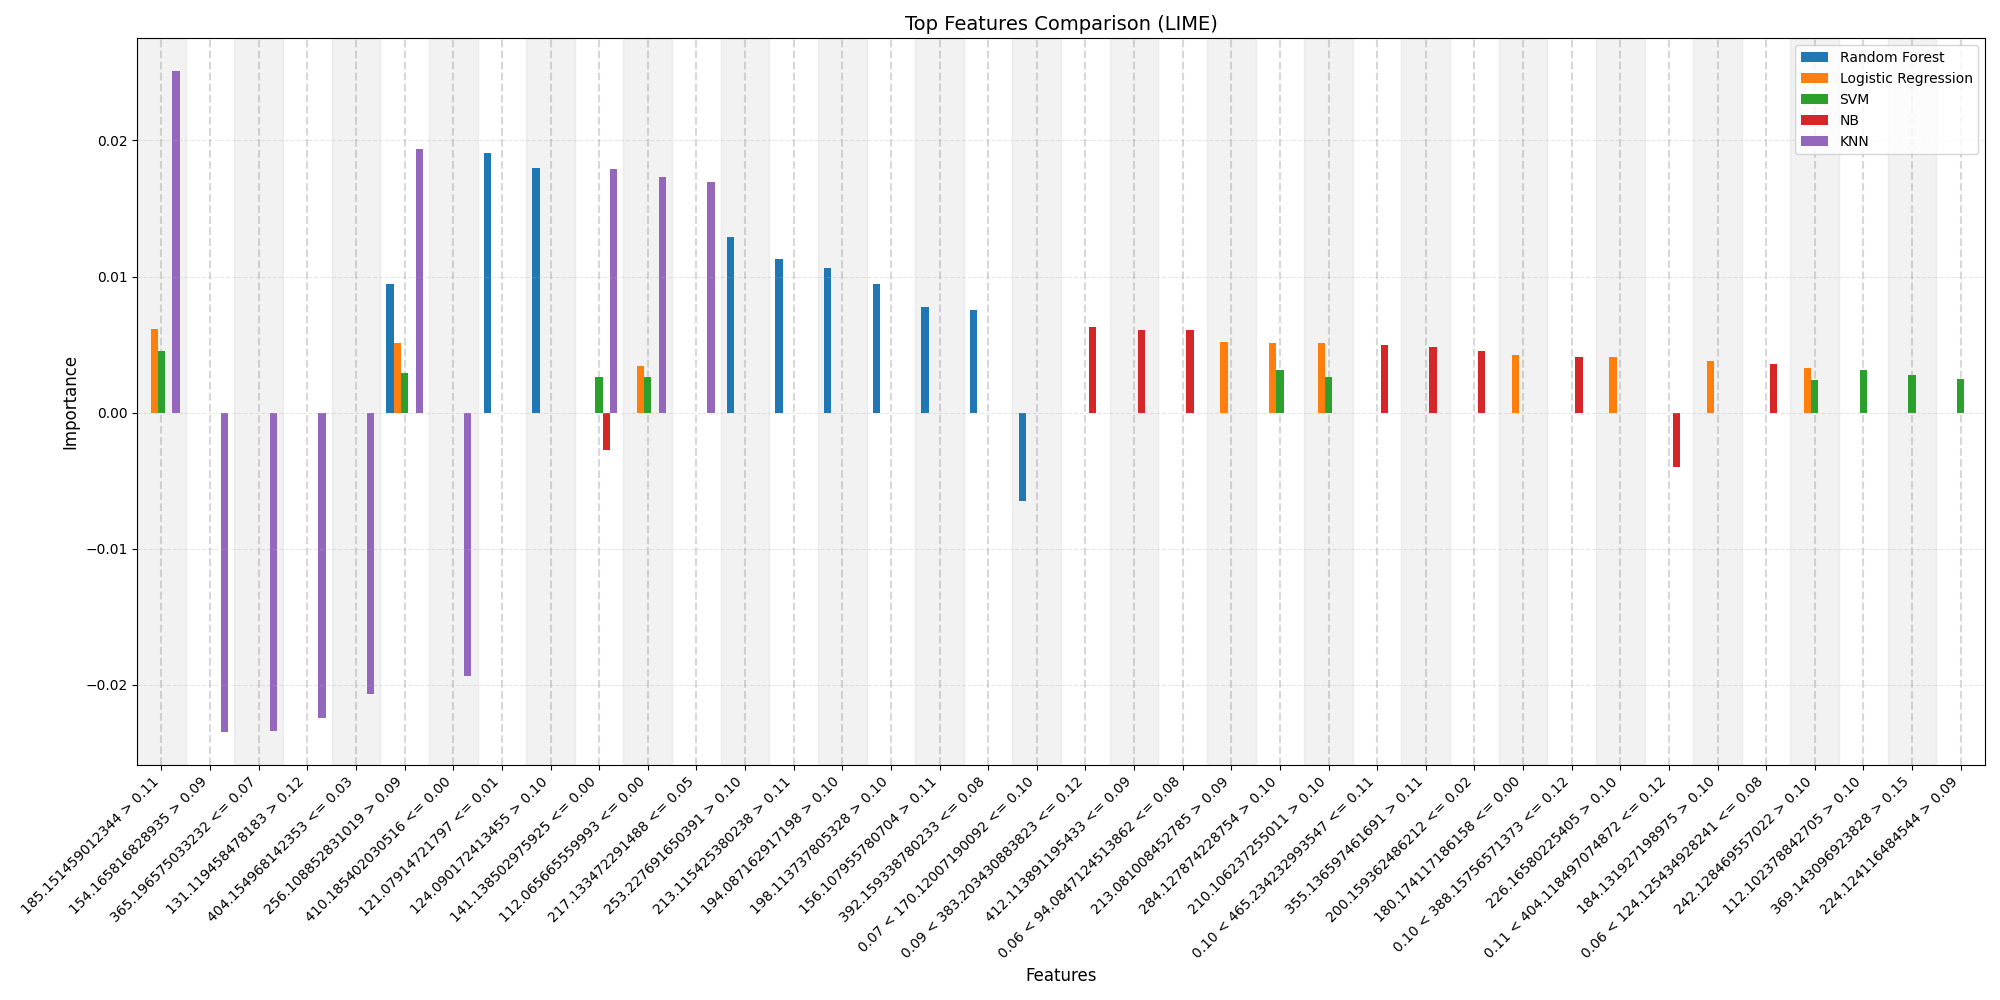
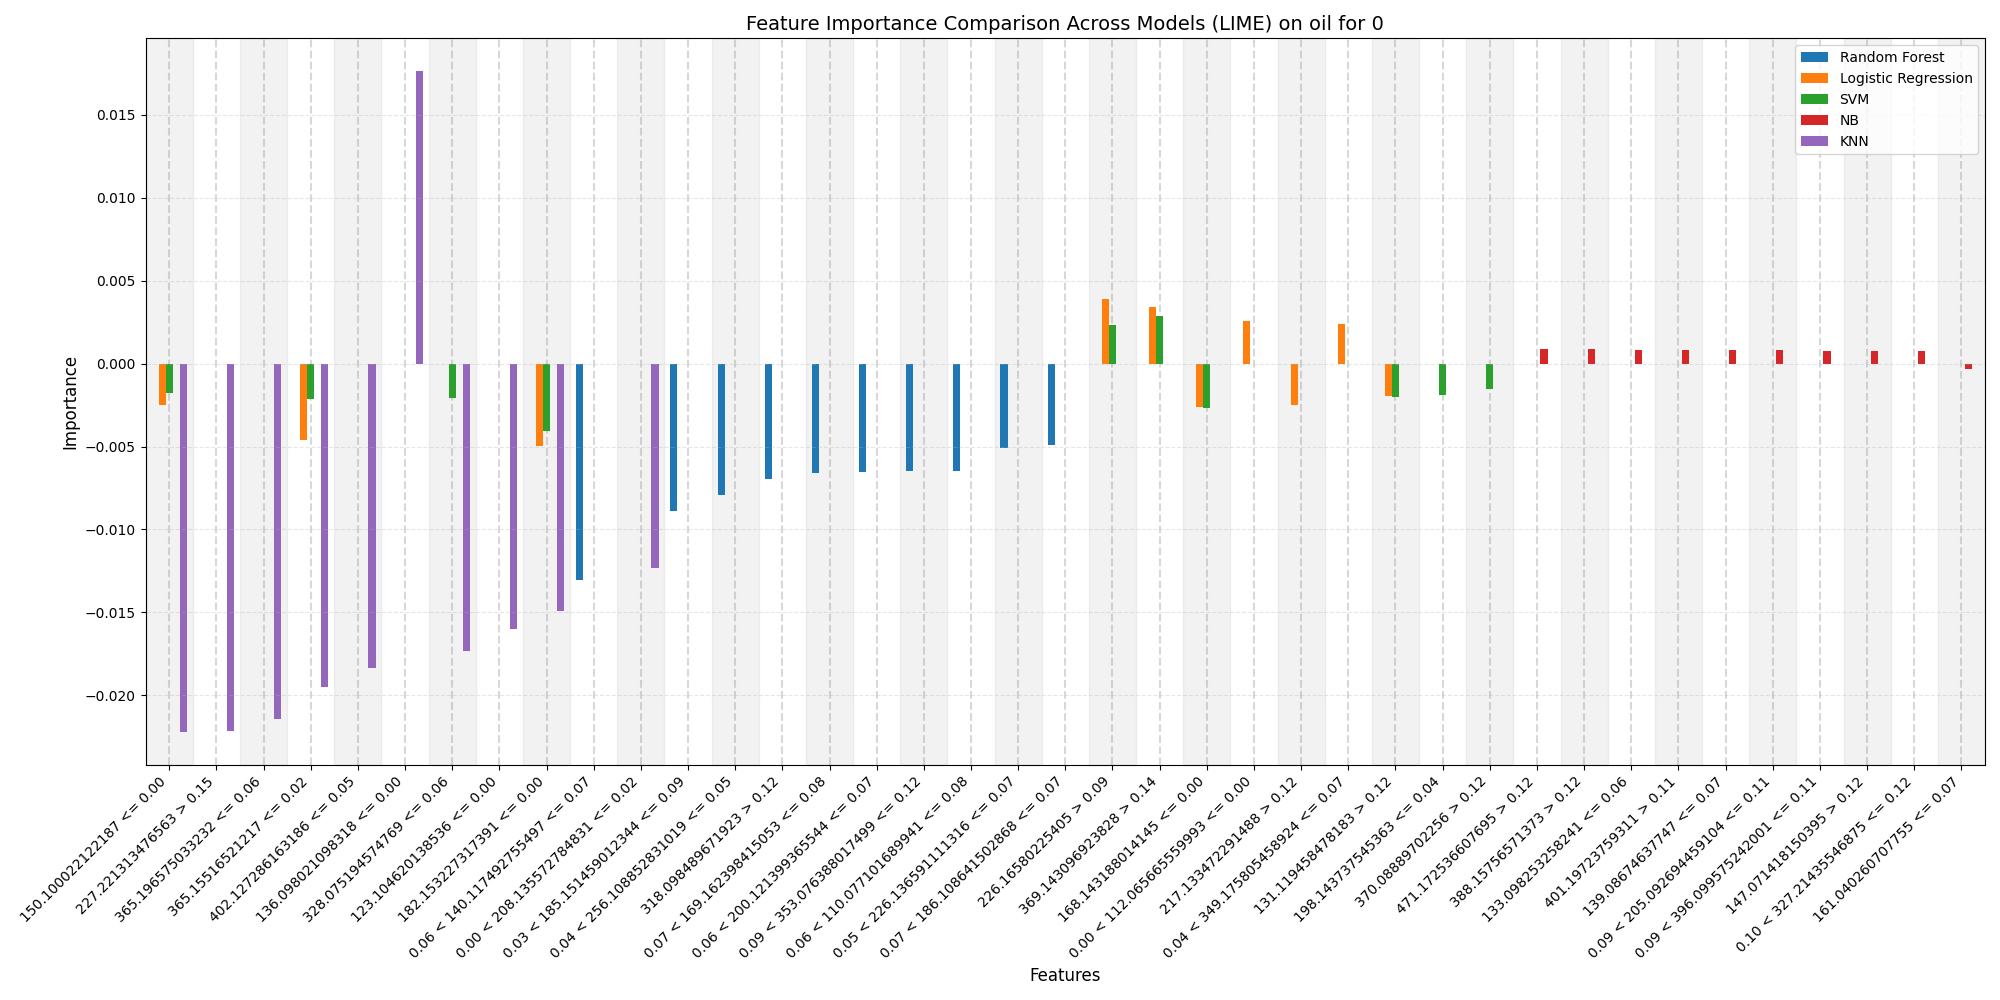
Add dataset and class name to bar and line LIME explanations graphs

diff --git a/code/lime/bar.py b/code/lime/bar.py
@@ -103,7 +103,7 @@ ax.yaxis.grid(True, linestyle='--', alpha=0.3, zorder=0)
 # Customize the plot
 ax.set_xlabel('Features', fontsize=12)
 ax.set_ylabel('Importance', fontsize=12)
-ax.set_title('Top Features Comparison (LIME)', fontsize=14)
+ax.set_title(f'Feature Importance Comparison Across Models (LIME) on {dataset} for {class_names[label]}', fontsize=14)
 ax.set_xticks(x)
 ax.set_xticklabels(df.index, rotation=45, ha='right')
 ax.legend(loc='upper right', fontsize=10)

diff --git a/code/lime/line.py b/code/lime/line.py
@@ -85,7 +85,7 @@ for model_name in df.columns:
 
 plt.xlabel('Features', fontsize=12)
 plt.ylabel('Importance', fontsize=12)
-plt.title('Feature Importance Comparison Across Models (LIME)', fontsize=14)
+plt.title(f'Feature Importance Comparison Across Models (LIME) on {dataset} for {class_names[label]}', fontsize=14)
 plt.xticks(rotation=45, ha='right')
 plt.legend(loc='best', fontsize=10)
 plt.grid(True, linestyle='--', alpha=0.7)
